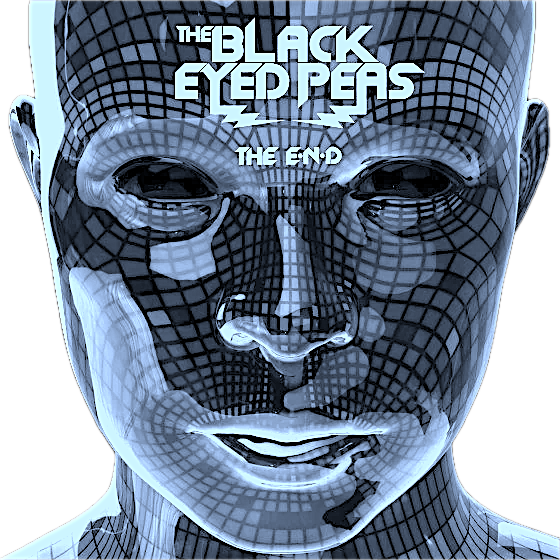
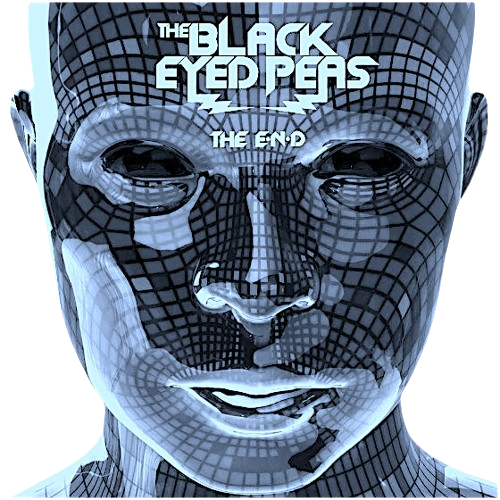
album cover with lines behind it

diff --git a/java/src/c22359751/ArushiVisual2.java b/java/src/c22359751/ArushiVisual2.java
@@ -6,10 +6,9 @@ import processing.core.PImage;
 public class ArushiVisual2 extends Visual {
 
     PImage albumCover;
-    float lineLength; // Length of the lines
-    int numLines = 20; // Number of lines
-    float[] lineLengths; // Array to store lengths of individual lines
-
+    float lineLength; 
+    int numLines = 30; 
+    float[] lineLengths; 
 
     public void settings() {
         println("CWD: " + System.getProperty("user.dir"));
@@ -29,21 +28,51 @@ public class ArushiVisual2 extends Visual {
         startMinim();
         loadAudio("java/data/meetmehalfway.mp3");
         albumCover = loadImage("java/data/cover.png");
-        albumCover.resize(width*2/3, height); 
+        albumCover.resize(width*2/3, height);
+        lineLength = height * 2; 
+        lineLengths = new float[numLines]; 
     }
+
+    float angleOffset = 0; 
 
     public void draw() {
         calculateAverageAmplitude();
         calculateFrequencyBands();
         background(0);
-        colorMode(HSB, 360, 100, 100);
-        float amplitude = getSmoothedAmplitude();
-        
-        float hue = map(amplitude, 0, 1, 0, 300);
 
-        tint(hue, 180, 180); 
+        float amplitude = getSmoothedAmplitude();
+
+        blendMode(ADD);
+        
+        // lines moving in circle
+        strokeWeight(2);
+        colorMode(HSB, 360, 100, 100);
+        float angleStep = TWO_PI / numLines;
+        for (int i = 0; i < numLines; i++) {
+            float angle = angleOffset + i * angleStep;
+            float radius = min(width, height) * 4; 
+
+            float x1 = width / 2;
+            float y1 = height / 2; 
+            float x2 = x1 + cos(angle) * radius;
+            float y2 = y1 + sin(angle) * radius;
+    
+            float hue = map(i, 0, numLines, 0, 360); 
+            stroke(hue, 80, 80);
+            line(x1, y1, -x2, -y2); 
+
+            angleOffset += getSmoothedAmplitude(); 
+        }
+    
+        blendMode(BLEND);
+
+        float hue = map(amplitude, 0, 1, 0, 360);
+        pushMatrix();
+        translate(0, 0, 1); 
         imageMode(CENTER);
+        tint(hue, 180, 180);
         image(albumCover, width / 2, height / 2);
+        popMatrix(); 
     }
 
 }
